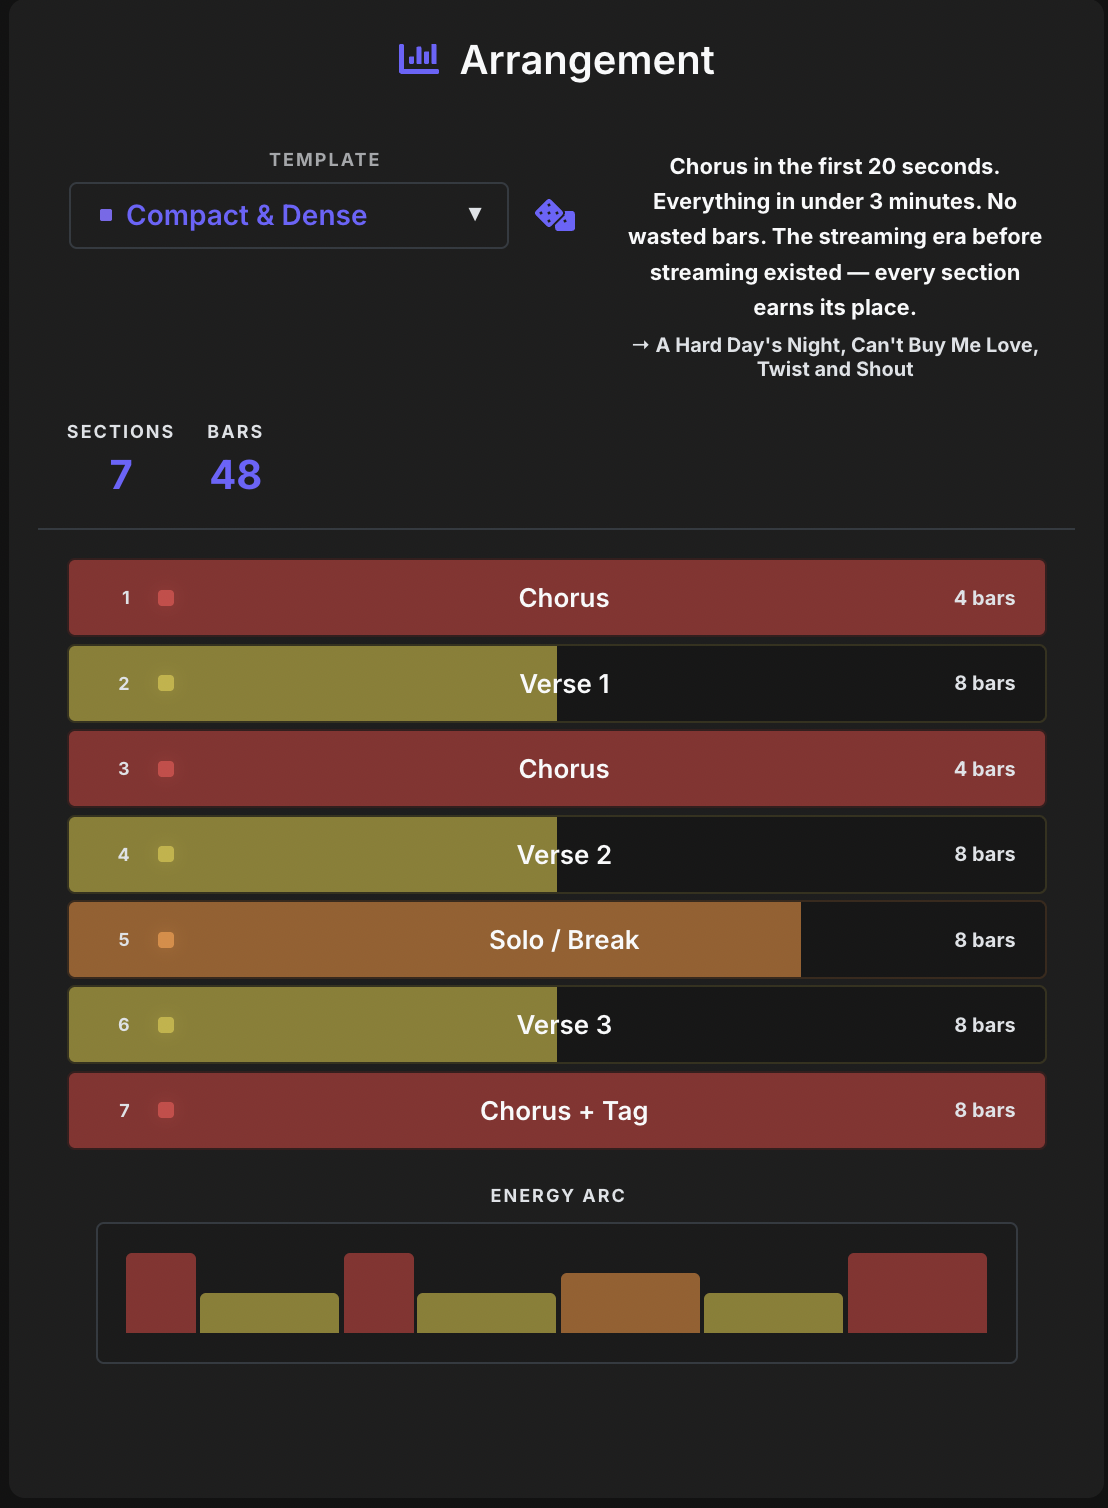
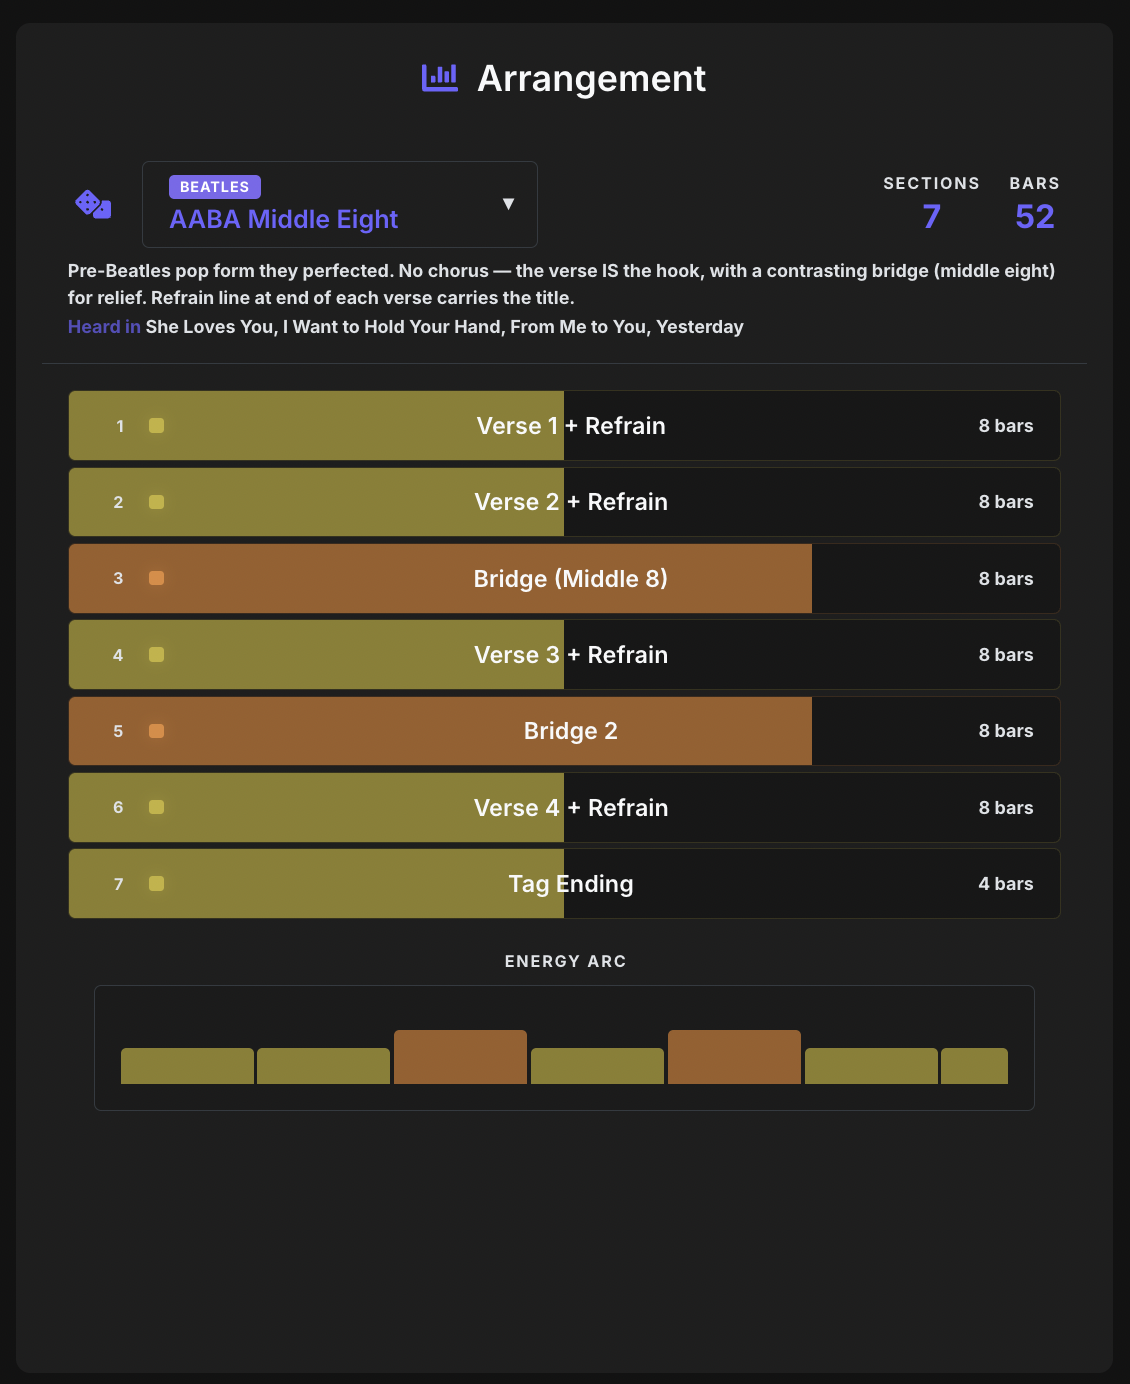
Refine Arrangement and Chord Progressions UI with "Heard in" labels and layout improvements
- Replace arrow prefix with styled "Heard in" label in both arrangement templates and chord progressions
- Reorganize arrangement header: dice + dropdown + stats in row 1, description + heard in below
- Add category badge to arrangement dropdown selector
- Add description and heard in text to chord progression dropdown items and selected display
- Skip "Heard in" prefix for utility chord progressions
- Add click-outside-to-close for arrangement dropdown
- Update arrangement screenshot

diff --git a/src/components/ArrangementTool/ArrangementTool.tsx b/src/components/ArrangementTool/ArrangementTool.tsx
@@ -1,4 +1,4 @@
-import React, { useState, useEffect, FC } from 'react';
+import React, { useState, useEffect, useRef, FC } from 'react';
 import styled, { keyframes } from 'styled-components';
 import { FaChartBar, FaDice } from 'react-icons/fa';
 import { Card, CardTitle, CardIconWrapper } from '../common/StyledComponents';
@@ -498,7 +498,7 @@ const SelectorButton = styled.button<{ $isOpen?: boolean }>`
   text-align: left;
   font-weight: 600;
   display: flex;
-  align-items: center;
+  align-items: flex-start;
   gap: ${({ theme }) => theme.spacing.sm};
   position: relative;
   transition: all 0.2s;
@@ -690,7 +690,19 @@ const ArrangementTool: FC<ArrangementToolProps> = () => {
     return saved && ALL_TEMPLATES[saved] ? saved : 'Two Peaks';
   });
   const [isOpen, setIsOpen] = useState(false);
+  const dropdownRef = useRef<HTMLDivElement>(null);
   const [animKey, setAnimKey] = useState(0);
+
+  useEffect(() => {
+    if (!isOpen) return;
+    const handleClickOutside = (e: MouseEvent) => {
+      if (dropdownRef.current && !dropdownRef.current.contains(e.target as Node)) {
+        setIsOpen(false);
+      }
+    };
+    document.addEventListener('mousedown', handleClickOutside);
+    return () => document.removeEventListener('mousedown', handleClickOutside);
+  }, [isOpen]);
 
   const template = ALL_TEMPLATES[selected];
   const totalBars = template.scenes.reduce((a, s) => a + s.bars, 0);
@@ -727,27 +739,34 @@ const ArrangementTool: FC<ArrangementToolProps> = () => {
     <ThemeAwareWrapper>
       <ArrangementCard className="arrangement-card">
         <TemplateSelector>
-          <div style={{ display: 'flex', gap: '20px', alignItems: 'flex-start', flexWrap: 'wrap' }}>
-          <div>
-            <div style={{
-              fontSize: '9px',
-              color: 'var(--text-secondary)',
-              marginBottom: '5px',
-              letterSpacing: '1px',
-              opacity: 0.7
-            }}>
-              TEMPLATE
-            </div>
-            <div style={{ position: 'relative', display: 'flex', gap: '8px', alignItems: 'center' }}>
+          <div style={{ display: 'flex', gap: '12px', alignItems: 'center', flexWrap: 'wrap' }}>
+            <RandomButton
+              onClick={handleRandomTemplate}
+              title="Random template"
+              style={{
+                background: 'transparent',
+                border: 'none'
+              }}
+            >
+              <Icon icon={FaDice} size={20} />
+            </RandomButton>
+            <div ref={dropdownRef} style={{ position: 'relative', flex: 1, minWidth: '180px' }}>
               <SelectorButton onClick={() => setIsOpen(!isOpen)} $isOpen={isOpen}>
-                <span style={{
-                  width: '6px',
-                  height: '6px',
-                  borderRadius: '1px',
-                  background: CATEGORY_COLORS[template.category || ''] || '#888',
-                  flexShrink: 0
-                }} />
-                {selected}
+                <div style={{ display: 'flex', flexDirection: 'column', alignItems: 'flex-start', gap: '3px' }}>
+                  <span style={{
+                    fontSize: '8px',
+                    fontWeight: 700,
+                    letterSpacing: '0.5px',
+                    padding: '2px 6px',
+                    borderRadius: '3px',
+                    background: CATEGORY_COLORS[template.category || ''] || '#888',
+                    color: '#fff',
+                    textTransform: 'uppercase'
+                  }}>
+                    {template.category || ''}
+                  </span>
+                  <span>{selected}</span>
+                </div>
                 <span style={{
                   position: 'absolute',
                   right: '12px',
@@ -759,18 +778,6 @@ const ArrangementTool: FC<ArrangementToolProps> = () => {
                   {isOpen ? '▲' : '▼'}
                 </span>
               </SelectorButton>
-
-              <RandomButton
-                onClick={handleRandomTemplate}
-                title="Random template"
-                style={{
-                  background: 'transparent',
-                  border: 'none'
-                }}
-              >
-                <Icon icon={FaDice} size={20} />
-              </RandomButton>
-
               {isOpen && (
                 <Dropdown>
                   {CATEGORIES.map((cat) => (
@@ -822,12 +829,24 @@ const ArrangementTool: FC<ArrangementToolProps> = () => {
                             <div style={{
                               fontSize: '9px',
                               color: 'var(--text-secondary)',
-                              marginTop: '1px',
+                              marginTop: '2px',
+                              overflow: 'hidden',
+                              textOverflow: 'ellipsis',
+                              display: '-webkit-box',
+                              WebkitLineClamp: 2,
+                              WebkitBoxOrient: 'vertical'
+                            }}>
+                              {tmpl.desc}
+                            </div>
+                            <div style={{
+                              fontSize: '9px',
+                              color: 'var(--text-secondary)',
+                              marginTop: '2px',
                               whiteSpace: 'nowrap',
                               overflow: 'hidden',
                               textOverflow: 'ellipsis'
                             }}>
-                              {tmpl.vibe}
+                              <span style={{ color: 'var(--primary)', opacity: 0.7 }}>Heard in </span>{tmpl.vibe}
                             </div>
                           </div>
                         </TemplateOption>
@@ -837,36 +856,34 @@ const ArrangementTool: FC<ArrangementToolProps> = () => {
                 </Dropdown>
               )}
             </div>
+            <div style={{ display: 'flex', gap: '16px', flexShrink: 0, alignItems: 'center' }}>
+              <div style={{ textAlign: 'center' }}>
+                <div style={{ fontSize: '9px', color: 'var(--text-secondary)', letterSpacing: '1px', marginBottom: '2px' }}>
+                  SECTIONS
+                </div>
+                <div style={{ fontSize: '18px', color: 'var(--primary)', fontWeight: 700 }}>
+                  {template.scenes.length}
+                </div>
+              </div>
+              <div style={{ textAlign: 'center' }}>
+                <div style={{ fontSize: '9px', color: 'var(--text-secondary)', letterSpacing: '1px', marginBottom: '2px' }}>
+                  BARS
+                </div>
+                <div style={{ fontSize: '18px', color: 'var(--primary)', fontWeight: 700 }}>
+                  {totalBars}
+                </div>
+              </div>
+            </div>
           </div>
 
-          <div style={{ flex: 1, minWidth: '160px' }}>
-            <div style={{ fontSize: '11px', color: 'var(--text-primary)', lineHeight: 1.6 }}>
+          <div style={{ textAlign: 'left', marginTop: '4px' }}>
+            <div style={{ fontSize: '10px', color: 'var(--text-secondary)', lineHeight: 1.5 }}>
               {template.desc}
             </div>
-            <div style={{ fontSize: '10px', color: 'var(--text-secondary)', marginTop: '4px' }}>
-              → {template.vibe}
+            <div style={{ fontSize: '10px', color: 'var(--text-secondary)', marginTop: '3px' }}>
+              <span style={{ color: 'var(--primary)', opacity: 0.7 }}>Heard in </span>{template.vibe}
             </div>
           </div>
-
-          <div style={{ display: 'flex', gap: '16px', flexShrink: 0 }}>
-            <div style={{ textAlign: 'center' }}>
-              <div style={{ fontSize: '9px', color: 'var(--text-secondary)', letterSpacing: '1px', marginBottom: '4px' }}>
-                SECTIONS
-              </div>
-              <div style={{ fontSize: '20px', color: 'var(--primary)', fontWeight: 700 }}>
-                {template.scenes.length}
-              </div>
-            </div>
-            <div style={{ textAlign: 'center' }}>
-              <div style={{ fontSize: '9px', color: 'var(--text-secondary)', letterSpacing: '1px', marginBottom: '4px' }}>
-                BARS
-              </div>
-              <div style={{ fontSize: '20px', color: 'var(--primary)', fontWeight: 700 }}>
-                {totalBars}
-              </div>
-            </div>
-          </div>
-        </div>
       </TemplateSelector>
 
       <SceneList>

diff --git a/src/components/NotesVisualizer/ChordProgressions/index.tsx b/src/components/NotesVisualizer/ChordProgressions/index.tsx
@@ -381,6 +381,18 @@ const OptionDesc = styled.span`
   text-overflow: ellipsis;
 `;
 
+const HeardInLabel = styled.span`
+  color: ${({ theme }) => theme.colors.primary};
+  opacity: 0.7;
+`;
+
+const HeardInRow = styled.div`
+  font-size: 10px;
+  color: ${({ theme }) => theme.colors.textSecondary};
+  margin-left: 38px;
+  text-align: left;
+`;
+
 const PlayBtn = styled.button<{ $isPlaying: boolean }>`
   background: ${({ $isPlaying, theme }) =>
     $isPlaying ? theme.colors.primary : 'transparent'};
@@ -410,6 +422,7 @@ const ChordPillsRow = styled.div`
   gap: 6px;
   flex-wrap: wrap;
   align-items: center;
+  margin-left: 38px;
 `;
 
 const ChordPill = styled.button<{ $isActive: boolean; $isPlaying: boolean }>`
@@ -760,7 +773,7 @@ const ChordProgressions: React.FC<ChordProgressionsProps> = ({
                         onClick={() => selectProgression(idx)}
                       >
                         <OptionName>{p.name}</OptionName>
-                        <OptionDesc>{'\u2192'} {p.desc}</OptionDesc>
+                        <OptionDesc>{p.category !== 'utility' && <HeardInLabel>Heard in </HeardInLabel>}{p.desc}</OptionDesc>
                       </DropdownOption>
                     ) : null
                   )}
@@ -777,6 +790,12 @@ const ChordProgressions: React.FC<ChordProgressionsProps> = ({
           <Icon icon={FaDownload} size={12} />
         </ExportBtn>
       </TopRow>
+
+      {currentProgression.desc && (
+        <HeardInRow>
+          {currentProgression.category !== 'utility' && <HeardInLabel>Heard in </HeardInLabel>}{currentProgression.desc}
+        </HeardInRow>
+      )}
 
       <ChordPillsRow>
         {effectiveDegrees.map((deg, i) => (
